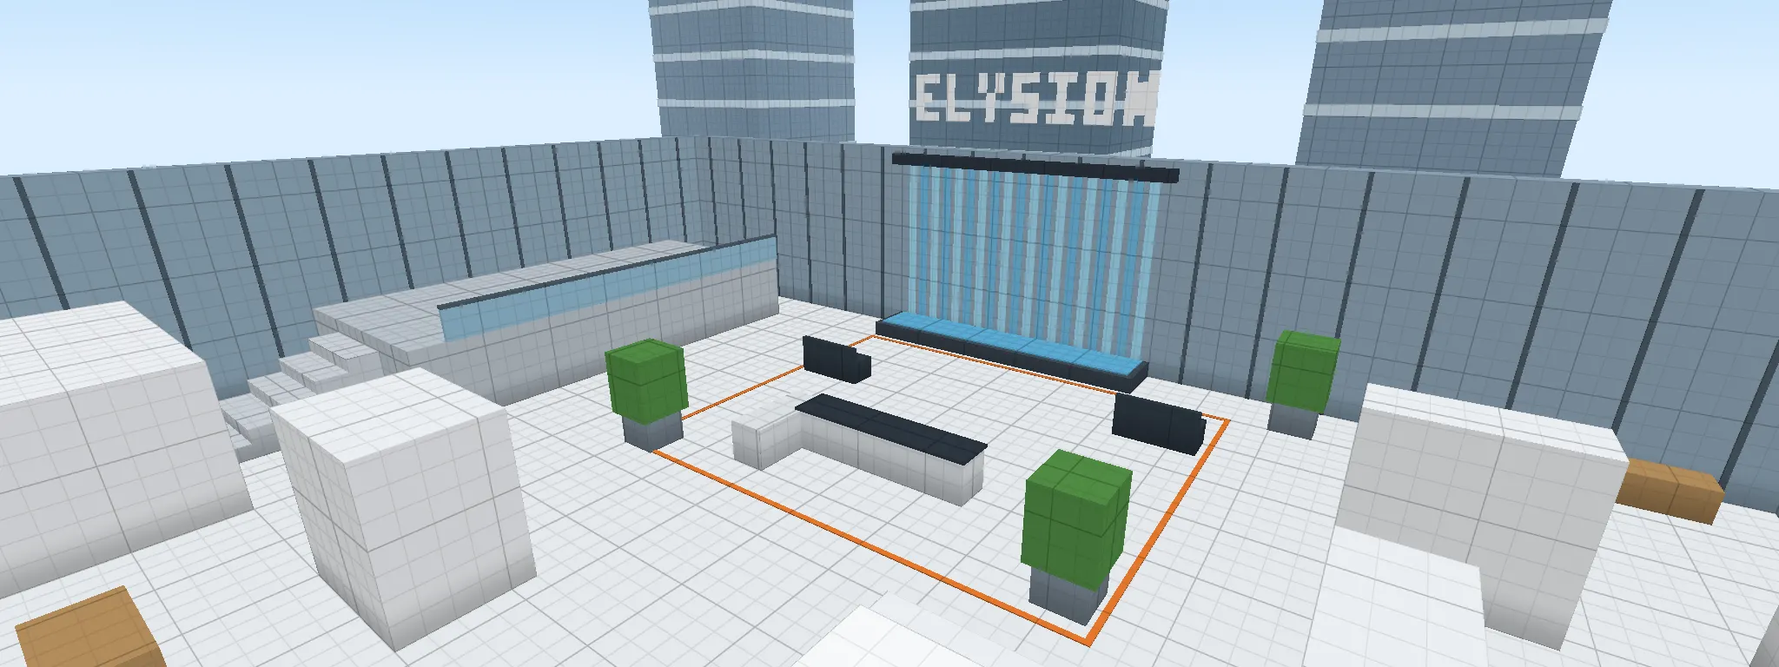
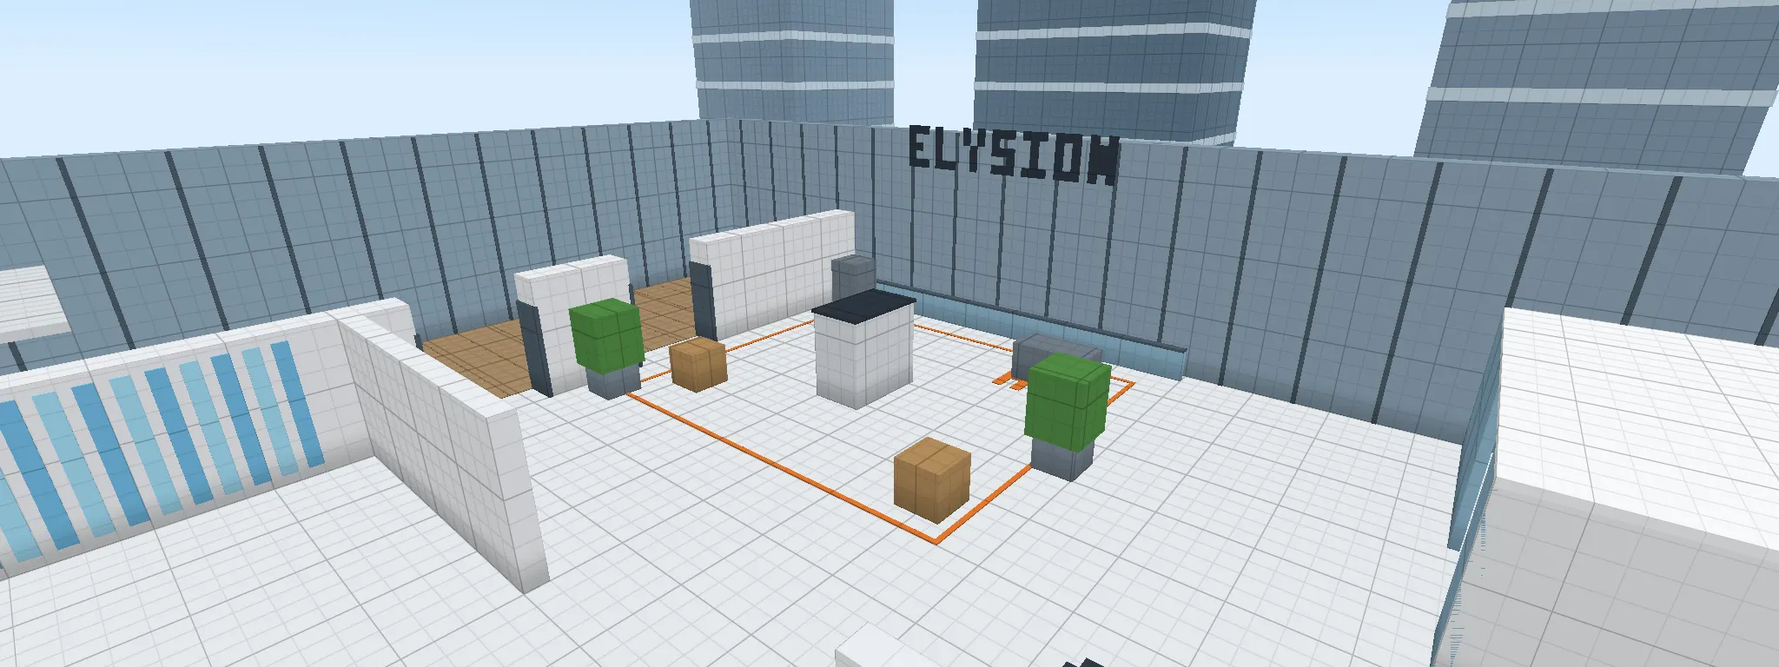
Guard e Elysion refeitos com as áreas dos mapas originais
Pesquisa: os nomes das áreas vêm das notas de atualização do CS:GO e do
autor (sem acesso ao radar oficial, bloqueado neste ambiente).

- Guard: bombsite A no cais à beira do rio, com coberturas viradas para
  a ponte e para os arcos (barco atracado, barraca); Ponte Carlos com
  estátuas e o arco do meio sobre a água; torre da ponte na cabeceira,
  pit, lixeira, ladder hole e escada com meia parede ligando a cidade
  velha (2,4 m acima) ao cais; conector até o spawn da SWAT recuado.
  Lado TR: restaurante com mesas, loja de vidro, bicicletas, caminhão
  com lona e a obra bloqueada.
- Elysion: spawn TR com a mesa da recepção, meio em dois níveis com as
  paredes de cascata, área externa (terraço com guarda-corpo de vidro e
  duas portas para o A), salão com obras de arte, bombsite A com a parede
  central, o letreiro ELYSION e o guarda-corpo das janelas, e a SWAT atrás
  da parede de vidro com o relógio.
- HUD mostra o nome da área onde você está; cards do menu atualizados.

Claude-Session: https://claude.ai/code/session_01SJ8oPAPunZCdTLFhtHxKgN

diff --git a/index.html b/index.html
@@ -292,6 +292,7 @@ button:disabled{opacity:.5;cursor:default}
 #dmgn.head{color:#ffe066}
 #dmgdir{position:absolute;left:50%;top:50%;width:0;height:0;opacity:0}
 #dmgdir i{position:absolute;left:-60px;top:-150px;width:120px;height:14px;border-radius:50% 50% 0 0/100% 100% 0 0;background:radial-gradient(ellipse at 50% 100%,rgba(255,60,40,.9),rgba(255,60,40,0) 70%)}
+#loc{position:absolute;top:calc(58px + env(safe-area-inset-top,0px));left:max(16px,env(safe-area-inset-left,0px));font:700 13px/1 var(--display);letter-spacing:.06em;text-transform:uppercase;color:#e9eef2;text-shadow:0 1px 2px #000}
 #bombbox{position:absolute;bottom:calc(64px + env(safe-area-inset-bottom,0px));left:max(16px,env(safe-area-inset-left,0px));display:flex;gap:6px;font:700 15px/1 var(--display)}
 #bombbox span{background:rgba(12,14,18,.72);padding:6px 10px;color:#fff}#bbMoney{color:#7dff9a!important}#bbC4{background:#c0392b!important;letter-spacing:.08em}
 #actbar{position:absolute;left:50%;bottom:22%;transform:translateX(-50%);display:flex;flex-direction:column;align-items:center;gap:6px;font:700 14px/1 var(--display);color:#fff;text-shadow:0 1px 2px #000}
@@ -392,6 +393,7 @@ button:disabled{opacity:.5;cursor:default}
   <div id="healn" aria-hidden="true"></div>
   <div id="ammobox"><span class="lbl" id="wname">AK-47</span><b id="ammo">30</b><span id="res">/ 90</span></div>
   <div id="fps"></div>
+  <div id="loc"></div>
   <div id="netst"></div>
   <div id="board" hidden><div id="boardRows"></div><button id="btnBoardBack" type="button" hidden>Voltar ao menu</button></div>
   <div id="deadmsg" hidden></div>
@@ -1438,103 +1440,133 @@ function statue(B, x, z, y = 0, size = 1) {
   dR(B, x - .02 * s, y + 1.98 * s, z - .25 * s, x + .02 * s, y + 2.2 * s, z + .25 * s, 0xd9a93a);
 }
 
-// Guard: Praga. Rio com água rasa (anda devagar), ponte de pedra elevada com estátuas, torre gótica na
-// cabeceira norte (passa-se pelo arco) e o bombsite A na praça da Cidade Velha, com a torre do relógio.
+// Guard (Praga, margem do rio junto à Ponte Carlos), montado com as áreas do mapa original: bombsite A no cais,
+// com as coberturas viradas para a ponte e para os arcos; torre na cabeceira, pit, lixeira, ladder hole, conector,
+// escada com meia parede e o spawn da SWAT recuado. Do lado dos Terroristas: restaurante, loja de vidro,
+// bicicletas, caminhão e a obra bloqueada. O lado norte fica 2,4 m acima do cais.
 MAPS.guard = {
-  name: 'Guard', theme: 'praga', bomb: true, ax: 20, az: 26, spawn: { hx: 6, z0: 19, z1: 24 },
-  water: [[-20, -4.5, 20, 4.5]],
-  plant: { site: { x0: -4, z0: -24, x1: 10, z1: -15, lx: 6.5, lz: -18 }, t: [[-5, 21.5, 0], [-2, 23.5, 0], [1.5, 21.5, 0], [4, 23.5, 0], [0, 24.6, 0]],
-    ct: [[-17, -21, 2.4], [-14.5, -23.5, 2.4], [-17.5, -24.5, 2.4], [-14, -20.5, 2.4], [-16, -22.8, 2.4]] },
+  name: 'Guard', theme: 'praga', bomb: true, ax: 22, az: 26, spawn: { hx: 6, z0: 19, z1: 24 },
+  water: [[-22, -2, 22, 4]],
+  plant: { site: { x0: -1, z0: -8.6, x1: 13, z1: -2.6, lx: 10.5, lz: -6.2 }, t: [[-6, 22, 0], [-2.5, 23.8, 0], [1, 22, 0], [4.5, 23.8, 0], [-1, 20.5, 0]],
+    ct: [[10, -23, 3.6], [13, -21.5, 3.6], [16, -23.5, 3.6], [12, -24.8, 3.6], [15.5, -20.8, 3.6]] },
+  areas: [['Spawn TR', -12, 17, 17, 26], ['Restaurante', -22, 4, -9, 17], ['Loja', -3, 8, 9, 17], ['Bicicletas', 9, 4, 22, 8], ['Caminhão', 9, 8, 17, 17], ['Obra', 17, 8, 22, 17],
+    ['Ponte', -9, -9, -3, 8, 1.8], ['Arcos', -9, -9, -3, -2], ['Rio', -22, -2, 22, 4], ['Cais', -22, -9, -9, -2], ['Bombsite A', -3, -9, 13, -2], ['Escada', 13, -9, 22, -2],
+    ['Torre', -11, -15, -1, -9], ['Pit', -1, -15, 4, -9], ['Lixeira', -15, -18, -11, -9], ['Ladder hole', -15, -14, -12, -9], ['Varanda', 4, -15, 15, -9], ['Conector', -1, -26, 8, -15], ['Spawn CT', 8, -26, 22, -15], ['Cidade velha', -22, -26, -1, -15]],
   build(B, K) {
-    const STONE = 0xa79b86, DARK = 0x5d564c;
-    // rio: água rasa com reflexos claros
-    dR(B, -20, 0, -4.5, 20, .035, 4.5, 0x3f6f88);
-    for (let x = -19; x < 20; x += 3.1) for (const z of [-2.6, .4, 3]) dR(B, x, .035, z, x + 1.4, .04, z + .12, 0x7fb0c8);
-    dR(B, -20, 0, 4.5, 20, .3, 4.75, 0x8a8170); dR(B, -20, 0, -4.75, 20, .3, -4.5, 0x8a8170);       // beiradas do cais
-    // Ponte: tabuleiro elevado (passa-se por baixo, dentro do rio), parapeitos, estátuas e lampiões
-    B.deck([-3, 2.0, -6.5], [3, 2.4, 6.5], STONE);
-    for (const x of [-3, 2.75]) B.solid([x, 2.4, -6.5], [x + .25, 3.25, 6.5], STONE);
-    for (const z of [-4.2, -.7, 2.8]) for (const x of [-2.87, 2.87]) statue(B, x, z, 3.25, .9);
-    for (const z of [-2.4, 1, 4.6]) for (const x of [-2.87, 2.87]) { dR(B, x - .05, 3.25, z - .05, x + .05, 5.2, z + .05, 0x2c2c2c); dR(B, x - .16, 5.2, z - .16, x + .16, 5.55, z + .16, 0xf2d27a); }
-    for (const z of [-4.5, 4.5]) { dR(B, -3.2, 0, z - .5, -2.4, 2.0, z + .5, STONE); dR(B, 2.4, 0, z - .5, 3.2, 2.0, z + .5, STONE); }  // pilares nas margens
-    dmStairs(B, 0, 6.5, 0, 1, 6, 2.4, K.ramp); dmStairs(B, 0, -6.5, 0, -1, 6, 2.4, K.ramp);
-    // Torre gótica da ponte: dois pilares, arco de passagem, telhado de ardósia íngreme e torreões
-    B.solid([-5, 0, -13.5], [-2.5, 11, -10.5], DARK); B.solid([2.5, 0, -13.5], [5, 11, -10.5], DARK); B.solid([-2.5, 3.6, -13.5], [2.5, 11, -10.5], DARK);
-    for (let i = 0; i < 4; i++) { const q = 5.3 - i * 1.25; dR(B, -q, 11 + i * 1.1, -12 - q * .4, q, 12.1 + i * 1.1, -12 + q * .4, 0x3a3e44); }
-    dR(B, -.12, 15.4, -12.12, .12, 18, -11.88, 0x3a3e44); dR(B, -.3, 17.4, -12.05, .3, 17.5, -11.95, 0xd9a93a);
-    for (const x of [-4.6, 4.6]) { dR(B, x - .45, 11, -10.95, x + .45, 13.6, -10.05, DARK); dR(B, x - .2, 13.6, -10.7, x + .2, 15.4, -10.3, 0x3a3e44); }
-    for (const x of [-3.8, 3.8]) propPanel(B, 'z+', -10.5, x - .35, x + .35, 5, 7.6, 0x26221e, .06);
-    propPanel(B, 'z+', -10.5, -1.6, 1.6, 6.4, 8.8, 0x8d7a4a, .06); propPanel(B, 'z+', -10.5, -2.7, 2.7, 3.6, 4.0, 0x7a6f60, .08);
-    // Margem norte (SWAT): quarteirões colados ao rio; o cais leste (x 11..16) é a saída de quem atravessa a água
-    baroque(B, -20, -12, -3, -4.5, 7, 0xe8c98a); baroque(B, 3, -12, 11, -4.5, 6.5, 0xe4b5a5); baroque(B, 16, -12, 20, -4.5, 7, 0xc9d8b5);
-    dmStairs(B, 13.5, -4.6, 0, 1, 4.6, .8, K.ramp);
-    // Praça da Cidade Velha: prefeitura com a torre do relógio astronômico, prédio leste e o bombsite A
-    baroque(B, -12, -26, -6, -17, 8, 0xeee3c8, 0x8b3a2a);
-    B.solid([-10.4, 0, -21], [-7.6, 15, -18.6], 0x8f8372); for (let i = 0; i < 3; i++) { const q = 1.6 - i * .45; dR(B, -9 - q, 15 + i, -19.8 - q, -9 + q, 16 + i, -19.8 + q, 0x3a3e44); }
-    for (let i = 0; i < 3; i++) { const q = .9 - i * .25; dR(B, -9 - q, 11 - q, -18.58, -9 + q, 11 + q, -18.5 + i * .02, [0x2f4f7a, 0xd9a93a, 0x2f4f7a][i]); }   // relógio astronômico
-    dR(B, -9.05, 10.3, -18.46, -8.95, 11.8, -18.44, 0x111111);
-    baroque(B, 12, -26, 20, -16, 8, 0xe8c98a);
+    const STONE = 0xa79b86, DARK = 0x5d564c, UP = 2.4;
+    const block = (x0, z0, x1, z1, h, col, roof) => { dmRect(B, x0, z0, x1, z1, h, col, UP); dR(B, x0 - .12, UP + h - .5, z0 - .12, x1 + .12, UP + h - .3, z1 + .12, 0xf3ead6); propRoof(B, x0, z0, x1, z1, UP + h, roof || 0xb5482f); };
+    // Lado norte elevado (cidade velha), com os recortes do pit e do ladder hole
+    dmRect(B, -22, -26, -14.2, -9, UP, K.plat); dmRect(B, -14.2, -26, -12.8, -13, UP, K.plat); dmRect(B, -12.8, -26, -1, -9, UP, K.plat);
+    dmRect(B, -1, -26, 4, -14, UP, K.plat); dmRect(B, -1, -14, 4, -9, 1.2, K.plat); dmRect(B, 4, -26, 22, -9, UP, K.plat);
+    dmStairs(B, 1.5, -14, 0, 1, 3, UP, K.ramp);                                       // degraus da rua para dentro do pit
+    dmStairs(B, -13.5, -13, 0, 1, 1.4, UP, 0x6b5b45);                               // ladder hole: passagem estreita até o cais
+    dmStairs(B, 16.5, -9, 0, 1, 3, UP, K.ramp); B.solid([14.6, 0, -9], [15, 1, -5], STONE); // escada com meia parede
+    B.solid([4, UP, -9.3], [14.6, UP + 1, -9], STONE);                               // varanda sobre o site
+    // Rio: água rasa com reflexos; cais dos dois lados
+    dR(B, -22, 0, -2, 22, .035, 4, 0x3f6f88);
+    for (let x = -21; x < 22; x += 3.1) for (const z of [-1.2, 1, 3]) dR(B, x, .035, z, x + 1.4, .04, z + .12, 0x7fb0c8);
+    dR(B, -22, 0, -2.2, 22, .3, -2, 0x8a8170); dR(B, -22, 0, 4, 22, .3, 4.2, 0x8a8170);
+    // Ponte Carlos: tabuleiro elevado, parapeitos com estátuas e lampiões, pilares no rio (passa-se pelo arco do meio)
+    B.deck([-9, 2.0, -9], [-3, UP, 8], STONE);
+    for (const x of [-9, -3.25]) B.solid([x, UP, -9], [x + .25, 3.25, 8], STONE);
+    for (const z of [-6.5, -2.5, 1.5, 5.5]) for (const x of [-8.87, -3.13]) statue(B, x, z, 3.25, .9);
+    for (const z of [-4.5, -.5, 3.5]) for (const x of [-8.87, -3.13]) { dR(B, x - .05, 3.25, z - .05, x + .05, 5.2, z + .05, 0x2c2c2c); dR(B, x - .16, 5.2, z - .16, x + .16, 5.55, z + .16, 0xf2d27a); }
+    B.solid([-9, 0, .4], [-7.6, 2.0, 1.6], STONE); B.solid([-4.4, 0, .4], [-3, 2.0, 1.6], STONE);
+    for (const x of [-9, -3.6]) dR(B, x, 0, -8.9, x + .6, 2.0, -8.3, STONE);             // arcos no cais
+    dmStairs(B, -6, 8, 0, 1, 6, UP, K.ramp);
+    // Torre da ponte (Old Town Bridge Tower): pilares, arco, telhado de ardósia e torreões
+    B.solid([-11, UP, -14], [-9, 13, -9.5], DARK); B.solid([-3, UP, -14], [-1, 13, -9.5], DARK); B.solid([-9, 5.6, -14], [-3, 13, -9.5], DARK);
+    for (let i = 0; i < 4; i++) { const q = 5.3 - i * 1.25; dR(B, -6 - q, 13 + i * 1.1, -11.75 - q * .45, -6 + q, 14.1 + i * 1.1, -11.75 + q * .45, 0x3a3e44); }
+    dR(B, -6.12, 17.4, -11.87, -5.88, 20, -11.63, 0x3a3e44); dR(B, -6.3, 19.4, -11.8, -5.7, 19.5, -11.7, 0xd9a93a);
+    for (const x of [-10.6, -1.4]) { dR(B, x - .45, 13, -10.4, x + .45, 15.6, -9.5, DARK); dR(B, x - .2, 15.6, -10.15, x + .2, 17.4, -9.75, 0x3a3e44); }
+    propPanel(B, 'z+', -9.5, -7.6, -4.4, 8.4, 10.8, 0x8d7a4a, .06); propPanel(B, 'z+', -9.5, -9, -3, 5.6, 6.0, 0x7a6f60, .08);
+    B.box(-.2, -15.2, C, C, C, K.crate, UP); B.box(1.1, -15.2, C, C, C, K.crate2, UP);    // caixas ao lado da torre
+    B.box(-12, -15.6, 1.6, 1, 1.2, 0x3f5a3a, UP); dR(B, -12.82, UP + 1.2, -16.12, -11.18, UP + 1.3, -15.08, 0x2c3a28); // lixeira
+    // Cidade velha e SWAT (todos sobre o nível elevado)
+    block(-22, -26, -15, -17, 7, 0xe8c98a); block(-12.8, -26, -1, -20, 7.5, 0xeee3c8, 0x8b3a2a); block(-1, -26, 2, -16, 6.5, 0xe4b5a5); block(5, -26, 8, -16, 6.5, 0xc9d8b5);
+    dR(B, 2, UP + 3.4, -26, 5, UP + 3.6, -16, 0xd8cdb8);                                // teto do conector
+    block(18, -26, 22, -12, 7, 0xe4b5a5); block(4, -14, 9, -12, 4, 0xe8c98a);
+    B.box(11, -17.5, 2 * C, C, C, K.crate, UP); B.box(-17, -13, C, C, 2 * C, K.crate2, UP);
+    for (let i = 0; i < 3; i++) { const q = .8 - i * .22; dR(B, -7 - q, UP + 5 - q, -19.98, -7 + q, UP + 5 + q, -19.92 + i * .02, [0x2f4f7a, 0xd9a93a, 0x2f4f7a][i]); } // relógio
+    // Bombsite A no cais: coberturas viradas para a ponte e para os arcos, barco atracado
     siteMark(B, this.plant.site);
-    statue(B, 2, -19.5, 0, 1.35);                                                   // estátua central do site
-    B.box(-1.5, -16.6, 2.6, 1, 1.05, 0x8a5a33); for (const x of [-2.7, -.3]) dR(B, x - .06, 1.05, -17.05, x + .06, 2.3, -16.95, 0x5a3a22);
-    propAwning(B, -2.9, -17.3, -.1, -16, 2.3, [0xb63a2e, 0xf3ead6], 'x');           // barraca de mercado
-    B.box(7.5, -22.5, C, C, C, K.crate); B.box(6.3, -22.5, C, C, C, K.crate2); B.box(8.6, -17.2, 2 * C, C, C, K.crate);
-    B.box(-2.5, -22.6, 1.3, 1.3, .8, 0x7d6a55); dR(B, -2.7, .8, -22.8, -2.3, 2.6, -22.4, 0x5a4a35); dR(B, -3.4, 2.2, -23.5, -1.6, 3.4, -21.7, 0x4f8a43);
-    // Margem sul (Terroristas): quarteirões ao longo do rio, beco leste até a água e o spawn entre casas
-    baroque(B, -20, 4.5, -6, 14, 7.5, 0xe4b5a5); baroque(B, 6, 4.5, 9, 12, 6, 0xeee3c8); baroque(B, 13, 4.5, 20, 13, 7, 0xe8c98a);
-    baroque(B, -20, 16, -11, 26, 7, 0xc9d8b5); baroque(B, 13, 15.5, 20, 26, 7.5, 0xe4b5a5); baroque(B, 6, 19.5, 10, 26, 6, 0xe8c98a);
-    B.box(-7.5, 16.5, C, C, C, K.crate2); B.box(10.5, 14, C, 2 * C, C, K.crate); B.box(-4, 15.2, 2 * C, C, C, K.crate); B.box(4.5, 15.6, C, C, 2 * C, K.crate2);
-    statue(B, -9, 21, 0, 1);
+    B.box(2, -6.5, 2 * C, C, C, K.crate); B.box(2, -4.2, C, C, 2 * C, K.crate2); B.box(7, -7.6, 2.4, 1, 1.05, 0x8a5a33);
+    propAwning(B, 5.8, -8.1, 8.2, -7.1, 2.2, [0xb63a2e, 0xf3ead6], 'x'); B.box(10.5, -3.6, C, C, C, K.crate); B.box(11.8, -7.8, C, C, 2 * C, K.crate2);
+    dR(B, 3, 0, -.6, 9, .55, 1.6, 0x6b4a2e); dR(B, 3.6, .55, -.3, 8.4, .65, 1.3, 0x8a6a45); dR(B, 4.2, .65, .1, 5.4, 1.4, .9, 0xf3ead6); // barco
+    // Margem sul (Terroristas): restaurante, loja de vidro, bicicletas, caminhão, obra e o spawn entre casas
+    baroque(B, -22, 8, -12, 16, 7, 0xe4b5a5);
+    for (const [x, z] of [[-11, 9.5], [-10, 11.2]]) { dmRect(B, x - .45, z - .45, x + .45, z + .45, .75, 0x6b4a2e); dR(B, x - .05, .75, z - .05, x + .05, 2.2, z + .05, 0x2c2c2c); dR(B, x - .9, 2.2, z - .9, x + .9, 2.35, z + .9, 0xb63a2e); }
+    baroque(B, 0, 9, 9, 16, 6.5, 0xeee3c8);
+    for (let x = .6; x < 8.6; x += 2) propPanel(B, 'z-', 9, x, x + 1.6, .4, 2.6, 0x9fd0e0, .05);  // vitrine da loja
+    for (let x = 10; x < 14; x += 1.2) { B.box(x, 6.4, .25, 1.1, .9, 0x2c2c2c); dR(B, x - .05, .4, 5.9, x + .05, .55, 6.9, 0x2f6aa8); }  // bicicletas
+    B.box(12, 13.5, 3, 5, 2.6, 0x7a7d70); dR(B, 10.45, .6, 10.9, 13.55, 2.75, 16.1, 0x4f6a3a);    // caminhão com lona
+    B.solid([17, 0, 8], [22, 2.2, 8.4], 0xd8a23a); B.solid([17, 0, 8], [17.4, 2.2, 16], 0xd8a23a); // obra bloqueada
+    for (let x = 17.5; x < 22; x += 1.4) dR(B, x, 2.2, 8.1, x + .7, 2.3, 8.3, 0x1c1c1c);
+    dR(B, 18, 0, 9, 21.6, 6, 15.6, 0x9aa0a6); for (let y = 1.5; y < 6; y += 1.5) dR(B, 17.9, y, 8.9, 21.7, y + .12, 15.7, 0x6b6f73);
+    baroque(B, -22, 17, -12, 26, 7, 0xc9d8b5); baroque(B, 17, 16, 22, 26, 7.5, 0xe8c98a); baroque(B, 9, 18.5, 17, 26, 6, 0xe4b5a5);
+    B.box(-8, 17.6, C, C, C, K.crate2); B.box(-1, 17.4, 2 * C, C, C, K.crate); statue(B, 6, 21, 0, 1);
   }
 };
 
-// Elysion: 39º andar de um arranha-céu. Saguão dos elevadores (Terroristas), corredor do meio com a recepção,
-// escritório aberto a leste e o salão principal com a cascata, o balcão e o letreiro: bombsite A. SWAT na diretoria.
+// Elysion (39º andar), montado com as áreas do mapa original: spawn TR com a mesa da recepção, meio em dois
+// níveis com as paredes de cascata, área externa (terraço com guarda-corpo de vidro e duas portas para o A),
+// salão principal com obras de arte e o bombsite A com a parede central, o letreiro ELYSION e o guarda-corpo das
+// janelas; a SWAT atrás de uma parede de vidro com o relógio.
 MAPS.elysion = {
-  name: 'Elysion', theme: 'elysion', bomb: true, ax: 18, az: 24, spawn: { hx: 6, z0: 19, z1: 23 },
-  plant: { site: { x0: -6, z0: -22, x1: 7, z1: -11, lx: 4.5, lz: -16 }, t: [[-5, 20.5, 0], [-2, 22.3, 0], [2, 20.5, 0], [5, 22.3, 0], [0, 23, 0]],
-    ct: [[12.5, -21.5, 3.6], [15, -19.5, 3.6], [11, -19, 3.6], [15.5, -22.5, 3.6], [13, -23, 3.6]] },
+  name: 'Elysion', theme: 'elysion', bomb: true, ax: 20, az: 24, spawn: { hx: 6, z0: 19, z1: 23 },
+  plant: { site: { x0: -11, z0: -22.5, x1: 1, z1: -12, lx: -2, lz: -20.5 }, t: [[-5, 20.5, 0], [-2, 22.3, 0], [2, 20.5, 0], [5, 22.3, 0], [0, 23, 0]],
+    ct: [[13, -21.5, 3.9], [16, -19.5, 3.9], [11.5, -18.5, 3.9], [17, -22.5, 3.9], [14, -23, 3.9]] },
+  areas: [['Spawn TR', -12, 15, 20, 24], ['Área externa', -20, -24, -13, 24], ['Meio', -12, -6, 12, 15], ['Bombsite A', -13, -24, 2, -11], ['Salão', 2, -14, 20, -6],
+    ['Salão', -12, -11, 2, -6], ['Spawn CT', 9, -24, 20, -14], ['Escritórios', 12, -6, 20, 15]],
   build(B, K) {
-    const WALL = 0xe9ecef, GLASS = 0x8fb8cf, WOOD = 0xb08a5a, H = 3.6;
+    const WALL = 0xe9ecef, GLASS = 0x8fb8cf, WOOD = 0xb08a5a, H = 3.6, UP = 2.4;
     const room = (x0, z0, x1, z1, col = WALL) => dmRect(B, x0, z0, x1, z1, H, col);
-    // Fachada de vidro: montantes nas paredes do andar e a cidade lá fora
-    for (let x = -17; x < 18; x += 2) { propPanel(B, 'z+', -24, x, x + .12, 0, 7, 0x4d5c69, .05); propPanel(B, 'z-', 24, x, x + .12, 0, 7, 0x4d5c69, .05); }
-    for (let z = -23; z < 24; z += 2) { propPanel(B, 'x+', -18, z, z + .12, 0, 7, 0x4d5c69, .05); propPanel(B, 'x-', 18, z, z + .12, 0, 7, 0x4d5c69, .05); }
-    for (const [x, z, w, d, h, c] of [[-30, -40, 10, 10, 46, 0x6f8aa0], [-12, -48, 14, 9, 60, 0x587489], [10, -44, 9, 11, 38, 0x7e98ad], [32, -30, 10, 12, 52, 0x627e94],
-      [34, 2, 9, 9, 30, 0x87a0b3], [31, 30, 11, 10, 44, 0x5f7a8f], [-33, 8, 10, 12, 36, 0x7b93a7], [-31, 34, 12, 9, 55, 0x6a8499], [4, 42, 12, 10, 34, 0x839cb0]])
+    // Fachada de vidro com montantes e a cidade lá fora
+    for (let x = -19; x < 20; x += 2) { propPanel(B, 'z+', -24, x, x + .12, 0, 7, 0x4d5c69, .05); propPanel(B, 'z-', 24, x, x + .12, 0, 7, 0x4d5c69, .05); }
+    for (let z = -23; z < 24; z += 2) { propPanel(B, 'x+', -20, z, z + .12, 0, 7, 0x4d5c69, .05); propPanel(B, 'x-', 20, z, z + .12, 0, 7, 0x4d5c69, .05); }
+    for (const [x, z, w, d, h, c] of [[-32, -40, 10, 10, 46, 0x6f8aa0], [-12, -48, 14, 9, 60, 0x587489], [10, -44, 9, 11, 38, 0x7e98ad], [34, -30, 10, 12, 52, 0x627e94],
+      [36, 2, 9, 9, 30, 0x87a0b3], [33, 30, 11, 10, 44, 0x5f7a8f], [-35, 8, 10, 12, 36, 0x7b93a7], [-33, 34, 12, 9, 55, 0x6a8499], [4, 42, 12, 10, 34, 0x839cb0]])
       { dR(B, x - w / 2, -20, z - d / 2, x + w / 2, h - 20, z + d / 2, c); for (let y = -16; y < h - 22; y += 3) dR(B, x - w / 2 - .05, y, z - d / 2 - .05, x + w / 2 + .05, y + .5, z + d / 2 + .05, 0xc8dbe8); }
-    // Saguão dos elevadores (sul): portas metálicas e o letreiro do andar
-    for (let x = -7; x <= 5; x += 4) { propPanel(B, 'z-', 24, x, x + 2, 0, 2.6, 0xa9b2ba, .06); dR(B, x + .98, 0, 23.9, x + 1.02, 2.6, 23.95, 0x4d5c69); }
-    signText(B, 'ELYSION', 0, 4.4, 23.85 - .04, .14, 0x2c3540);
-    room(-18, 12, -9, 24); room(9, 12, 18, 24, 0xdfe3e6);
-    // Corredor do meio até a recepção; salas de reunião dos dois lados com vidro
-    room(-9, 3, -2.5, 16); room(2.5, 10, 6, 16);
-    for (const z of [5, 8]) { propPanel(B, 'x+', -2.5, z, z + 2, .9, 2.6, GLASS, .04); }
-    // Escritório aberto (leste): mesas, divisórias baixas e plantas
-    for (const [x, z] of [[8.5, 8], [12.5, 8], [8.5, 4], [12.5, 4], [15.5, 6]]) { B.box(x, z, 2.2, 1.1, .8, WOOD); dR(B, x - 1.1, .8, z - .05, x + 1.1, 1.35, z + .05, 0x5f7f99); }
-    B.box(10.5, 11.6, 1, 1, 1.2, 0x7d8b97); dR(B, 10.1, 1.2, 11.2, 10.9, 2.4, 12, 0x4f8a43);
-    room(6, -2, 11, 2.5); room(16, -6, 18, 2.5);
-    // Recepção do meio (área aberta), ligada ao salão pelo sul
-    room(-18, -4, -10, 3); B.box(-5, -1, 2 * C, C, C, K.crate2); B.box(3, 0, C, C, 2 * C, K.crate); dR(B, -1, 0, -2.6, 1, .45, -1.6, 0x56616b);
-    // Salão principal (bombsite A): cascata na parede norte, espelho d'água, balcão da recepção e o letreiro
-    room(-6, -6.5, -2.5, -4); room(6, -6.5, 10, -4);
-    dmRect(B, -6, -24, 4, -22.2, .5, 0x3e4a55); dR(B, -5.8, .5, -23.9, 3.8, .55, -22.4, 0x5aa8d0);
-    for (let x = -5.6; x < 3.8; x += .5) dR(B, x, .5, -23.98, x + .3, 6.4, -23.93, (Math.round(x * 2) & 1) ? 0x9fd8f0 : 0x6fb8e0);
-    dR(B, -6.2, 6.4, -24, 4.2, 6.8, -23.6, 0x2c3540);
-    B.box(.5, -14, 5, 1, 1.1, 0xd8dde1); dR(B, -2.05, 1.1, -14.55, 3.05, 1.18, -13.45, 0x2c3540); B.box(-2.4, -13.2, 1, 2.4, 1.1, 0xd8dde1);
-    signText(B, 'ELYSION', -1, 9.6, -24 + .06, .32, 0xf3f6f8);
-    for (const [x, z] of [[-4.6, -18.2], [5.6, -19.6]]) { B.box(x, z, 2.2, .9, .7, 0x2f3a45); dR(B, x - 1.1, .7, z + .3, x + 1.1, 1.2, z + .45, 0x2f3a45); }
-    for (const [x, z] of [[6.2, -12], [-5.5, -11.5], [8.5, -22.5]]) { B.box(x, z, 1.1, 1.1, .9, 0x7d8b97); dR(B, x - .7, .9, z - .7, x + .7, 2.6, z + .7, 0x4f8a43); }
+    // Spawn TR: recepção dos elevadores com a mesa e a luz em cima
+    for (let x = -9; x <= 7; x += 4) { propPanel(B, 'z-', 24, x, x + 2, 0, 2.6, 0xa9b2ba, .06); dR(B, x + .98, 0, 23.9, x + 1.02, 2.6, 23.95, 0x4d5c69); }
+    B.box(0, 18, 4, 1, 1.1, 0xd8dde1); dR(B, -2, 1.1, 17.5, 2, 1.18, 18.5, 0x2c3540); dR(B, -1.5, 3.3, 17.7, 1.5, 3.45, 18.3, 0xfff4c8);
+    room(-13, 17.5, -12, 24); room(12, 15, 20, 24, 0xdfe3e6);
+    // Divisória entre o interior e a área externa (x = -12), com a porta do spawn e as duas portas do A
+    room(-13, -24, -12, -16.5); room(-13, -13.5, -12, -10.5); room(-13, -7.5, -12, 15);
+    for (const z of [-16.5, -13.5, -10.5, -7.5]) dR(B, -13.05, 0, z - .06, -11.95, 2.8, z + .06, 0x4d5c69);
+    // Área externa: terraço com guarda-corpo de vidro, piso de deck, floreiras e cobertura parcial
+    dR(B, -20, 0, -24, -13, .02, 24, 0xa38866);
+    for (let z = -23; z < 24; z += 1.2) dR(B, -20, .02, z, -13, .025, z + .06, 0x8a7050);
+    for (const z of [-20, -4, 6]) { B.box(-15, z, 1.2, 2.4, .7, 0x6f7b86); dR(B, -15.5, .7, z - 1.1, -14.5, 1.6, z + 1.1, 0x4f8a43); }
+    dR(B, -20, 4.2, -2, -13, 4.4, 24, 0xd8dde1);
+    // Meio em dois níveis: piso de baixo, passarela alta no leste com escada e as paredes de cascata
+    room(-12, 12.5, -4, 15); room(4, 12.5, 12, 15);
+    dmRect(B, 5, -6, 12, 6, UP, 0xb7c0c8); dmStairs(B, 8.5, 6, 0, 1, 3, UP, K.ramp); dR(B, 4.95, UP, -6, 5.05, UP + 1, 6, GLASS);
+    for (const [x0, x1] of [[-11.9, -11.85]]) for (let z = -5; z < 11; z += .5) dR(B, x0, .3, z, x1, 3.4, z + .3, (Math.round(z * 2) & 1) ? 0x9fd8f0 : 0x6fb8e0);
+    for (let x = -11.5; x < -4.5; x += .5) dR(B, x, .3, 12.42, x + .3, 3.4, 12.47, (Math.round(x * 2) & 1) ? 0x9fd8f0 : 0x6fb8e0);
+    B.box(-6, 3, 2 * C, C, C, K.crate2); B.box(1, -2, C, C, 2 * C, K.crate); B.box(-8.5, 9, C, 2 * C, C, K.crate);
+    // Escritórios (leste): mesas e divisórias
+    room(12, -6, 13, 12.5);
+    for (const [x, z] of [[15.5, 8], [15.5, 3], [15.5, -2]]) { B.box(x, z, 2.2, 1.1, .8, WOOD); dR(B, x - 1.1, .8, z - .05, x + 1.1, 1.35, z + .05, 0x5f7f99); }
+    // Salão principal: obras de arte, quadro, sofás
+    room(-12, -6.5, -4, -6); room(4, -6.5, 12, -6);
+    for (const [z0, z1, c] of [[-13, -10, 0xd06a3a], [-9.5, -7.5, 0x3a6ad0]]) propPanel(B, 'x-', 20, z0, z1, 1, 2.8, c, .06);
+    propPanel(B, 'z+', -6.5, 5, 9, .8, 2.8, 0x2f3a45, .05); propPanel(B, 'z+', -6.5, 5.3, 8.7, 1.1, 2.5, 0xd9a93a, .06);
+    for (const [x, z] of [[6, -10], [10, -11.5]]) { B.box(x, z, 2.2, .9, .7, 0x2f3a45); dR(B, x - 1.1, .7, z + .3, x + 1.1, 1.2, z + .45, 0x2f3a45); }
+    // Bombsite A: parede central, letreiro ELYSION, guarda-corpo das janelas e a cascata da parede norte
     siteMark(B, this.plant.site);
-    // Mezanino oeste a 2,4 m com escada pelo sul e guarda-corpo de vidro
-    dmRect(B, -18, -22, -11, -8, 2.4, 0xb7c0c8); dmStairs(B, -14.5, -8, 0, 1, 3, 2.4, K.ramp);
-    dR(B, -11.05, 2.4, -22, -10.95, 3.4, -9, GLASS); dR(B, -11.1, 3.35, -22, -10.9, 3.45, -9, 0x4d5c69);
-    B.box(-15.5, -19, 2 * C, C, C, K.crate2);
-    // Diretoria (SWAT, nordeste): divisória com porta para o salão e saída para o corredor leste
-    room(10, -17, 13.5, -15.6); room(16, -17, 18, -15.6); B.box(15.5, -23, 2.4, 1, .8, WOOD);
-    room(10, -11, 11.5, -6.5); B.box(14, -9, C, C, C, K.crate);
-    // Forro nos ambientes fechados (só visual)
-    for (const [x0, z0, x1, z1] of [[-9, 16, 9, 24], [-2.5, 3, 2.5, 16], [6, -6, 18, 16]]) dR(B, x0, H, z0, x1, H + .15, z1, 0xf4f6f7);
+    B.solid([-6, 0, -18.2], [-4.4, 2.6, -15.6], 0xd8dde1); dR(B, -6.05, 2.6, -18.25, -4.35, 2.7, -15.55, 0x2c3540);
+    signText(B, 'ELYSION', -5, 7.2, -24 + .06, .3, 0x2c3540);
+    B.solid([-12, 0, -23.7], [2, .95, -23.5], GLASS); dR(B, -12, .95, -23.75, 2, 1.02, -23.45, 0x4d5c69);
+    B.box(-9.5, -14, C, C, C, K.crate2); B.box(-1, -21, 2 * C, C, C, K.crate); B.box(-9.8, -21.5, C, C, 2 * C, K.crate); B.box(0, -13.2, C, C, C, K.crate2);
+    for (const [x, z] of [[-11, -12], [1.5, -16.5]]) { B.box(x, z, 1.1, 1.1, .9, 0x7d8b97); dR(B, x - .7, .9, z - .7, x + .7, 2.6, z + .7, 0x4f8a43); }
+    // Spawn CT: parede de vidro com porta para o salão e o relógio
+    B.solid([9, 0, -24], [9.2, H, -18.5], GLASS); B.solid([9, 0, -15.5], [9.2, H, -14], GLASS); dR(B, 9, H, -24, 20, H + .15, -14, 0xf4f6f7);
+    room(9, -14.2, 13, -14); room(16, -14.2, 20, -14);
+    for (let i = 0; i < 3; i++) { const q = .7 - i * .2; dR(B, 19.95 - i * .02, 2 - q, -19 - q, 20, 2 + q, -19 + q, [0x2c3540, 0xf3f6f8, 0x2c3540][i]); }
+    dR(B, 19.9, 1.95, -19.05, 19.93, 2.5, -18.95, 0x111111); B.box(16, -22.5, 2.4, 1, .8, WOOD);
+    // Forro sobre os ambientes internos (só visual)
+    for (const [x0, z0, x1, z1] of [[-12, 15, 12, 24], [12, -6, 20, 24], [-12, 12.5, 12, 15]]) dR(B, x0, H, z0, x1, H + .15, z1, 0xf4f6f7);
   }
 };
 if (!MAPS[S.dmMap]?.dm) S.dmMap = 'deathmatch';
@@ -4779,7 +4811,7 @@ function updateVM(dt, t) {
 }
 
 /* ================= HUD ================= */
-const el = { bombbox: $('bombbox'), bbMoney: $('bbMoney'), bbArmor: $('bbArmor'), bbC4: $('bbC4'), actbar: $('actbar'), actLbl: $('actLbl'), actFill: $('actFill'), blind: $('blindfx'), smoke: $('smokefx'), hud: $('hud'), xh: $('xh'), hitm: $('hitm'), dmgn: $('dmgn'), dmgdir: $('dmgdir'), red: $('redflash'), scope: $('scope'),
+const el = { loc: $('loc'), bombbox: $('bombbox'), bbMoney: $('bbMoney'), bbArmor: $('bbArmor'), bbC4: $('bbC4'), actbar: $('actbar'), actLbl: $('actLbl'), actFill: $('actFill'), blind: $('blindfx'), smoke: $('smokefx'), hud: $('hud'), xh: $('xh'), hitm: $('hitm'), dmgn: $('dmgn'), dmgdir: $('dmgdir'), red: $('redflash'), scope: $('scope'),
   scMe: $('scMe'), scOp: $('scOp'), nmMe: $('nmMe'), nmOp: $('nmOp'), clock: $('clock'), clockT: $('clockT'), clockL: $('clockL'),
   wait: $('waitline'), banner: $('banner'), bH: $('bH'), bP: $('bP'), feed: $('feed'), hpbox: $('hpbox'), hp: $('hp'),
   wname: $('wname'), ammo: $('ammo'), res: $('res'), fps: $('fps'), netst: $('netst'), board: $('board'), dead: $('deadmsg') };
@@ -4883,8 +4915,14 @@ function updateNadeHUD(t) {
   if (el.blind._o !== blind) { el.blind._o = blind; el.blind.style.opacity = blind; }
   if (el.smoke._o !== fog) { el.smoke._o = fog; el.smoke.style.opacity = fog; }
 }
+// Nome da área onde o jogador está (callouts do mapa, como no CS).
+function areaName(x, y, z) {
+  for (const a of MAP.areas || []) if (x >= a[1] && x <= a[3] && z >= a[2] && z <= a[4] && (a[5] == null || y >= a[5])) return a[0];
+  return '';
+}
 function updateHUD(dt, t) {
   updateNadeHUD(t);
+  setT(el.loc, P.alive && MAP.areas ? areaName(P.pos.x, P.pos.y, P.pos.z) : '');
   const v = G.view, w = W[P.weapon];
   setT(el.scMe, String(v.sc[G.me] || 0)); setT(el.scOp, String(G.opp ? (v.sc[G.opp] || 0) : 0));
   setT(el.nmMe, cleanName(S.name)); setT(el.nmOp, G.opp ? nameOf(G.opp) : '—');
